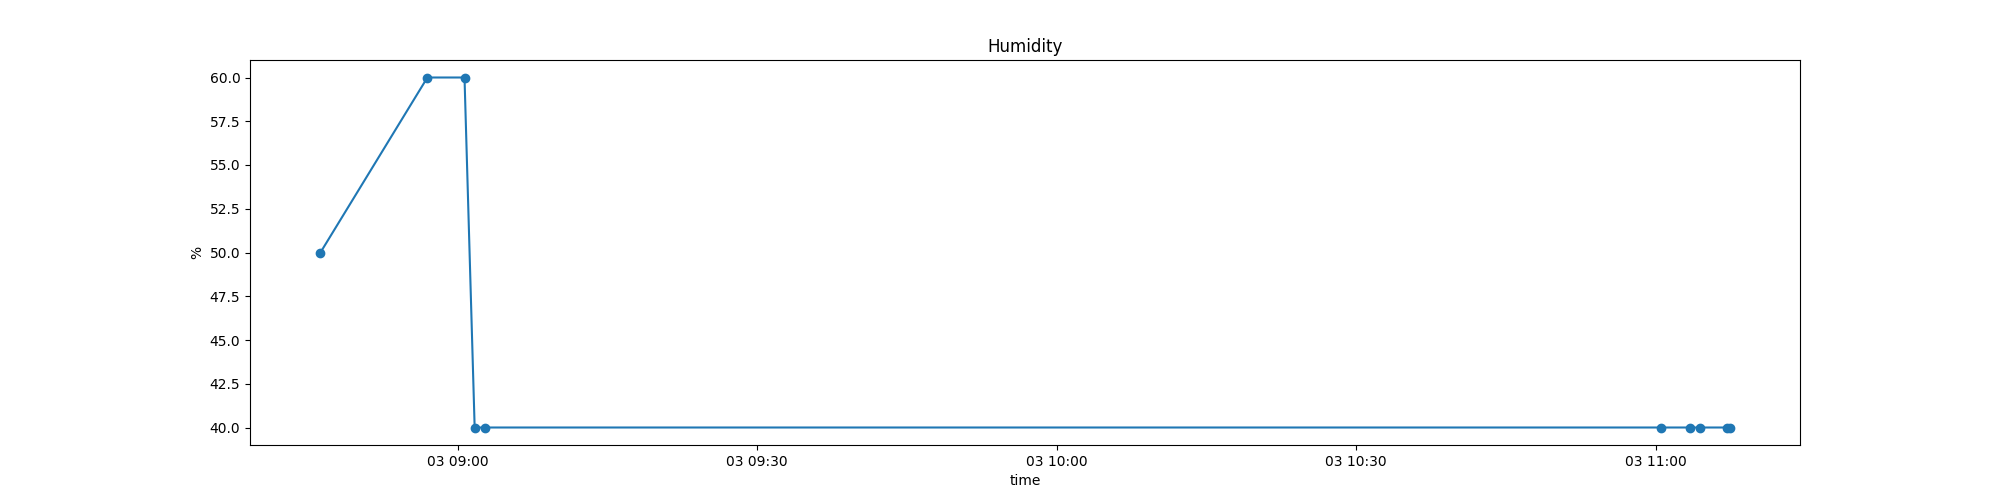
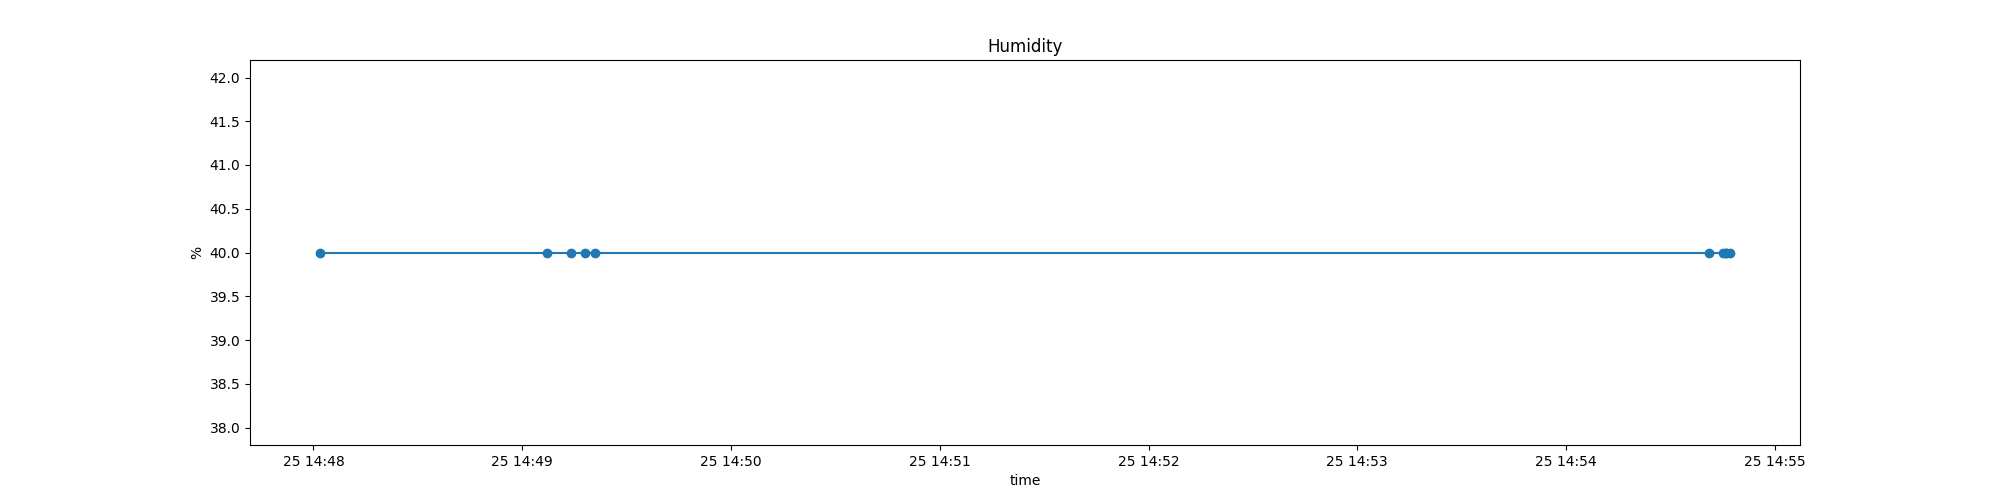
update draw fig by date

diff --git a/SmartPot/app/src/main/java/com/project3/SmartPot/ChartActivity.java b/SmartPot/app/src/main/java/com/project3/SmartPot/ChartActivity.java
@@ -1,0 +1,181 @@
+package com.project3.SmartPot;
+
+import androidx.annotation.NonNull;
+import androidx.appcompat.app.AppCompatActivity;
+
+import android.app.DatePickerDialog;
+import android.app.Dialog;
+import android.graphics.Color;
+import android.graphics.drawable.ColorDrawable;
+import android.net.Uri;
+import android.os.AsyncTask;
+import android.os.Bundle;
+import android.util.Log;
+import android.view.View;
+import android.widget.AdapterView;
+import android.widget.ArrayAdapter;
+import android.widget.Button;
+import android.widget.DatePicker;
+import android.widget.EditText;
+import android.widget.ImageButton;
+import android.widget.ImageView;
+import android.widget.LinearLayout;
+import android.widget.Spinner;
+import android.widget.Toast;
+
+import com.google.android.gms.tasks.OnCompleteListener;
+import com.google.android.gms.tasks.OnFailureListener;
+import com.google.android.gms.tasks.OnSuccessListener;
+import com.google.android.gms.tasks.Task;
+import com.google.firebase.auth.AuthResult;
+import com.google.firebase.auth.FirebaseAuth;
+import com.google.firebase.auth.FirebaseUser;
+import com.google.firebase.database.DatabaseReference;
+import com.google.firebase.database.FirebaseDatabase;
+import com.google.firebase.storage.FirebaseStorage;
+import com.google.firebase.storage.StorageReference;
+import com.squareup.picasso.Picasso;
+
+import java.util.Calendar;
+
+public class ChartActivity extends AppCompatActivity {
+    EditText edtDateFrom, edtDateTo;
+    Spinner dropdown;
+    Button btnDrawChart;
+    Dialog dialog;
+    ImageView imgV1;
+    private int lastSelectedYear;
+    private int lastSelectedMonth;
+    private int lastSelectedDayOfMonth;
+    DatabaseReference myRef;
+    StorageReference mStorageRef;
+//    private int selectedChart;
+
+    @Override
+    protected void onCreate(Bundle savedInstanceState) {
+        super.onCreate(savedInstanceState);
+        setContentView(R.layout.activity_chart);
+
+//        selectedChart = 0;
+        edtDateFrom = (EditText) findViewById(R.id.edtDateFrom);
+        edtDateTo = (EditText) findViewById(R.id.edtDateTo);
+        dropdown = (Spinner) findViewById(R.id.spinner1);
+        btnDrawChart = (Button) findViewById(R.id.btnDrawChart);
+        imgV1 = (ImageView) findViewById(R.id.imgV1);
+        FirebaseDatabase database = FirebaseDatabase.getInstance();
+        myRef = database.getReference("drawChart");
+        mStorageRef = FirebaseStorage.getInstance().getReference();
+
+        String[] items = new String[]{"Humidity", "SoilM", "Temperature"};
+        ArrayAdapter<String> adapter = new ArrayAdapter<>(this, android.R.layout.simple_spinner_dropdown_item, items);
+        dropdown.setAdapter(adapter);
+
+//        dropdown.setOnItemSelectedListener(new AdapterView.OnItemSelectedListener() {
+//            @Override
+//            public void onItemSelected(AdapterView<?> parent, View view,
+//                                       int position, long id) {
+//
+//                selectedChart = position;
+//            }
+//            @Override
+//            public void onNothingSelected(AdapterView<?> parent) {
+//                // TODO Auto-generated method stub
+//            }
+//        });
+        edtDateFrom.setOnClickListener(new View.OnClickListener() {
+            @Override
+            public void onClick(View v) {
+                pickFromDate();
+            }
+        });
+        edtDateTo.setOnClickListener(new View.OnClickListener() {
+            @Override
+            public void onClick(View v) {
+                pickToDate();
+            }
+        });
+        btnDrawChart.setOnClickListener(new View.OnClickListener() {
+            @Override
+            public void onClick(View v) {
+                drawChart();
+            }
+        });
+        final Calendar c = Calendar.getInstance();
+        this.lastSelectedYear = c.get(Calendar.YEAR);
+        this.lastSelectedMonth = c.get(Calendar.MONTH);
+        this.lastSelectedDayOfMonth = c.get(Calendar.DAY_OF_MONTH);
+
+    }
+
+    private void pickFromDate() {
+        DatePickerDialog.OnDateSetListener dateSetListener = new DatePickerDialog.OnDateSetListener() {
+
+            @Override
+            public void onDateSet(DatePicker view, int year,
+                                  int monthOfYear, int dayOfMonth) {
+
+                edtDateFrom.setText(dayOfMonth + "," + (monthOfYear + 1) + "," + year);
+
+            }
+        };
+        DatePickerDialog datePickerDialog = new DatePickerDialog(this,
+                android.R.style.Theme_Holo_Light_Dialog_NoActionBar,
+                dateSetListener, lastSelectedYear, lastSelectedMonth, lastSelectedDayOfMonth);
+        datePickerDialog.show();
+    }
+
+    private void pickToDate() {
+        DatePickerDialog.OnDateSetListener dateSetListener = new DatePickerDialog.OnDateSetListener() {
+
+            @Override
+            public void onDateSet(DatePicker view, int year,
+                                  int monthOfYear, int dayOfMonth) {
+
+                edtDateTo.setText(dayOfMonth + "," + (monthOfYear + 1) + "," + year);
+                lastSelectedYear = year;
+                lastSelectedMonth = monthOfYear;
+                lastSelectedDayOfMonth = dayOfMonth;
+            }
+        };
+        DatePickerDialog datePickerDialog = new DatePickerDialog(this,
+                android.R.style.Theme_Holo_Light_Dialog_NoActionBar,
+                dateSetListener, lastSelectedYear, lastSelectedMonth, lastSelectedDayOfMonth);
+        datePickerDialog.show();
+    }
+
+    private void drawChart() {
+        String dateFrom, dateTo, dataWant;
+
+        imgV1.setImageDrawable(getResources().getDrawable(R.drawable.loading));
+
+        dateFrom = edtDateFrom.getText().toString();
+        dateTo = edtDateTo.getText().toString();
+        dataWant = dropdown.getSelectedItem().toString();
+        myRef.setValue(dateFrom + "@" + dateTo + "@" + dataWant);
+
+        try {
+
+            Thread.sleep(3000);
+        } catch (InterruptedException e) {
+            e.printStackTrace();
+        }
+
+        StorageReference mImageStorage = FirebaseStorage.getInstance().getReference();
+        StorageReference ref = mImageStorage.child("fig/figByDate.png");
+
+
+        ref.getDownloadUrl().addOnCompleteListener(new OnCompleteListener<Uri>() {
+            @Override
+            public void onComplete(@NonNull Task<Uri> task) {
+                if (task.isSuccessful()) {
+                    Uri downUri = task.getResult();
+
+                    Picasso.with(ChartActivity.this).load(downUri.toString()).into(imgV1);
+                }else{
+                    Toast.makeText(ChartActivity.this, ""+task.getException(), Toast.LENGTH_SHORT).show();
+                }
+            }
+        });
+
+    }
+}

diff --git a/mySql/script.py b/mySql/script.py
@@ -2,6 +2,7 @@ import mysql.connector
 import pyrebase
 import time
 import matplotlib.pyplot as plt
+
 #initializing
 config = {
 	"apiKey": "AIzaSyCKWp_L1KUxG0gMMdnHz9s6PQRtjbjjNoA",
@@ -36,6 +37,7 @@ def getData():
 	val = (_humDHT, _soilMoist, _tempDHT)
 	mycursor.execute(sql, val)
 	mydb.commit()
+	print("get data complete")
 	print(mycursor.rowcount, "record inserted.")
 def drawFig():
 	sql1 = "select * from root_data where created_at > date_sub(now(), interval 1 week ) LIMIT 10"
@@ -74,19 +76,56 @@ def drawFig():
 	plt.ylabel("°C")
 	plt.plot(date,dataTemp,'o-')
 	plt.savefig('temperature.png')
-	
+	storage.child("fig/humidity.png").put("humidity.png")
+	storage.child("fig/soilM.png").put("soilM.png")
+	storage.child("fig/temperature.png").put("temperature.png")
+	print("draw fig complete")
+def drawFigWithDate():	
+	query = db.child("drawChart").get()
+	value = query.val()
+	if value != "none":
+			
+		params = value.split("@")
+			
+		def data(i):
+			switcher={
+				"Temperature":"tempDHT",
+				"Humidity":"humDHT",
+				"SoilM":'soilMoist',
+				}
+			return switcher.get(i,"*")
+			
+		sql2 = "select created_at,"+data(params[2])+" FROM `root_data` WHERE created_at BETWEEN DATE_ADD(STR_TO_DATE('"+params[0]+"','%d,%m,%Y'),INTERVAL -1 DAY) AND DATE_ADD(STR_TO_DATE('"+params[1]+"','%d,%m,%Y'),INTERVAL 1 DAY)"
+		mycursor.execute(sql2)
 
-#loop
-count = 10
+		myresult2 = mycursor.fetchall()
+		date = []
+		dataGet = []
+		for x in myresult2:
+			date.append(x[0])
+			dataGet.append(x[1])
+
+		plt.figure(figsize=(15,5))
+		plt.title(params[2])
+		plt.plot(date,dataGet,'o-')
+		plt.savefig('figByDate.png')
+		storage.child("fig/figByDate.png").put("figByDate.png")
+		db.child("drawChart").set("none")
+		print("draw fig by date complete")
+
+t1 = time.time() + 60
+getData()
+t2 = time.time() + 600
+drawFig()
+
 while True:
-	getData()
-	if count >= 20:
-		count = 0
-		drawFig()
-		storage.child("fig/humidity.png").put("humidity.png")
-		storage.child("fig/soilM.png").put("soilM.png")
-		storage.child("fig/temperature.png").put("temperature.png")
-		print("fig updated")
 	
-	count += 1
-	time.sleep(60)
+	drawFigWithDate()
+	if time.time() >= t1:
+		t1 = time.time() + 60
+		getData()
+		
+	if time.time() >= t2:
+		t2 = time.time() + 600
+		drawFig()
+		

diff --git a/SmartPot/app/src/main/java/com/project3/SmartPot/MainActivity.java b/SmartPot/app/src/main/java/com/project3/SmartPot/MainActivity.java
@@ -8,7 +8,7 @@ import android.view.View;
 import android.widget.Button;
 
 public class MainActivity extends AppCompatActivity {
-    Button btnShow, btnControl;
+    Button btnShow, btnControl,btnChart;
     @Override
     protected void onCreate(Bundle savedInstanceState) {
         super.onCreate(savedInstanceState);
@@ -25,6 +25,13 @@ public class MainActivity extends AppCompatActivity {
             public void onClick(View v) {
                 //Switch control activity
                 startActivity(new Intent(MainActivity.this,ControlActivity.class));
+            }
+        });
+        btnChart =(Button) findViewById(R.id.btnChart);
+        btnChart.setOnClickListener(new View.OnClickListener() {
+            public void onClick(View v) {
+                //Switch control activity
+                startActivity(new Intent(MainActivity.this,ChartActivity.class));
             }
         });
     }
